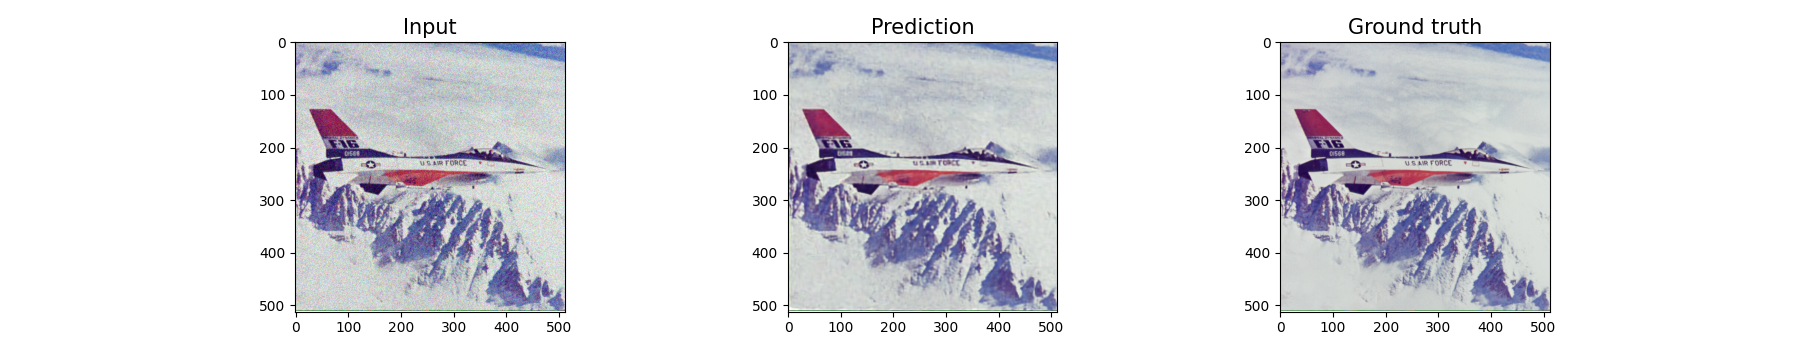
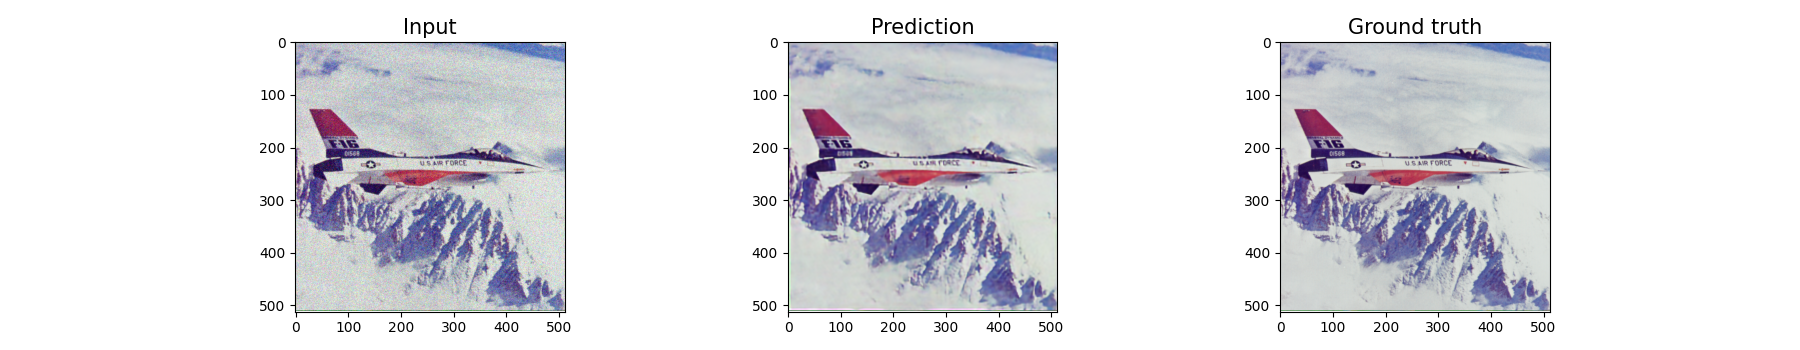
denoise

Changed region(s): [[0.1556, 0.1143, 0.3111, 0.8857]]

diff --git a/model.py b/model.py
@@ -58,47 +58,49 @@ class Model(nn.Module):
 
     def __init__(self, w, h, input_channel=3, mode='bilinear'):
         super(Model, self).__init__()
-        self.w,self.h = int(w/64), int(h/64)
+        self.w1,self.h1 = int(w/64), int(h/64)
+        self.w2,self.h2 = int(w/32), int(h/32)
+        self.w3,self.h3 = int(w/16), int(h/16)
+        self.w4,self.h4 = int(w/8), int(h/8)
         # print(w,self.w)
-        self.d1 = D(input_channel, 8, 3)
-        self.d2 = D(8, 16, 3)
-        self.d3 = D(16, 32, 3)
-        self.d4 = D(32, 64, 3)
-        self.d5 = D(64, 128, 3)
+        self.d1 = D(input_channel, 128, 3)
+        self.d2 = D(128, 128, 3)
+        self.d3 = D(128, 128, 3)
+        self.d4 = D(128, 128, 3)
+        self.d5 = D(128, 128, 3)
         # self.d6 = D(128, 256, 3)
 
-        self.u1 = U(16, 8, 3, mode=mode)
-        self.u2 = U(32, 16, 3, mode=mode)
-        self.u3 = U(64, 32, 3, mode=mode)
-        self.u4 = U(128 + 4, 64, 3, mode=mode)
+        self.u1 = U(128, 128, 3, mode=mode)
+        self.u2 = U(128 + 4, 128, 3, mode=mode)
+        self.u3 = U(128 + 4, 128, 3, mode=mode)
+        self.u4 = U(128 + 4, 128, 3, mode=mode)
         self.u5 = U(128 + 4, 128, 3, mode=mode)
         # self.u6 = U(128 + 4, 256, 3, mode=mode)
 
-        self.s4 = S(32, 4, 1)
-        self.s5 = S(64, 4, 1)
+        self.s2 = S(128, 4, 1)
+        self.s3 = S(128, 4, 1)
+        self.s4 = S(128, 4, 1)
+        self.s5 = S(128, 4, 1)
         # self.s6 = S(128, 4, 1)
 
-        self.conv_out = nn.Conv2d(8, 3, 1, stride=1, padding=0, bias=True)
+        self.conv_out = nn.Conv2d(128, 3, 1, stride=1, padding=0, bias=True)
 
     def forward(self, x):
         h = self.d1(x)
+        skip1 = self.s2(h)
         h = self.d2(h)
+        skip2 = self.s3(h)
         h = self.d3(h)
         skip3 = self.s4(h)
         h = self.d4(h)
         skip4 = self.s5(h)
         h = self.d5(h)
-        # h = self.u5(torch.cat((skip4[:, :, 8:-8, 8:-8], h), dim=1))
-        # h = self.u4(torch.cat((skip3[:, :, 16:-16, 16:-16], h), dim=1))
-        # skip5 = self.s6(h)
-        # h = self.d6(h)
-        
-        # h = self.u6(torch.cat((skip5[:,:,int(self.w/2):-int(self.w/2),int(self.h/2):-int(self.h/2)],h),dim=1))
-        # h = self.u6(torch.cat((skip5[:,:,self.w:-self.w,self.h:-self.h],h),dim=1))
-        h = self.u5(torch.cat((skip4[:,:,self.w:-self.w,self.h:-self.h],h),dim=1))
-        h = self.u4(torch.cat((skip3[:,:,2*self.w:-2*self.w,2*self.h:-2*self.h],h),dim=1))
-        h = self.u3(h)
-        h = self.u2(h)
+        # print(skip4[:,:,self.w1:-self.w1,self.h1:-self.h1].shape,h.shape,self.w1)
+        h = self.u5(torch.cat((skip4[:,:,self.w1:-self.w1,self.h1:-self.h1],h),dim=1))
+        h = self.u4(torch.cat((skip3[:,:,self.w2:-self.w2,self.h2:-self.h2],h),dim=1))
+        h = self.u3(torch.cat((skip2[:,:,self.w3:-self.w3,self.h3:-self.h3],h),dim=1))
+        # print(skip2[:,:,self.w4:-self.w4,self.h4:-self.h4].shape,h.shape,self.h4)
+        h = self.u2(torch.cat((skip1[:,:,self.w4:-self.w4,self.h4:-self.h4],h),dim=1))
         h = self.u1(h)
 
         return torch.sigmoid(self.conv_out(h))

diff --git a/main.py b/main.py
@@ -30,13 +30,13 @@ if __name__ == "__main__":
     if args.task == 'denoise':
         # print(image.shape)
         model = Model(image.shape[1], image.shape[2],input_channel=32).to(device)
-        optimizer = optim.Adam(model.parameters(), lr=0.025)
+        optimizer = optim.Adam(model.parameters(), lr=0.01)
         loss_fn = torch.nn.MSELoss()
         corrupted_img = (image + torch.randn_like(image) * .1).clip(0, 1)
         corrupted_img = corrupted_img.transpose(2, 3).transpose(1, 2)
-        z = torch.randn([1, 32, corrupted_img.shape[-2], corrupted_img.shape[-1]]) * .1
+        z = torch.rand([1, 32, corrupted_img.shape[-2], corrupted_img.shape[-1]]) * 0.1
         z = z.to(device)
-        
+        # model = Model(input_channel=32, w = corrupted_img.shape[-2],h=corrupted_img.shape[-1]).to(device)
         corrupted_img = corrupted_img.to(device)
     elif args.task == 'inpaint':
         loss_fn = torch.nn.MSELoss()
@@ -48,7 +48,9 @@ if __name__ == "__main__":
     # print(corrupted_img.shape)
     for epoch in tqdm(range(args.epoch)):
         if args.task == 'denoise':
-            img_pred = model.forward(z)
+            noise = torch.randn([1, 32, corrupted_img.shape[-2], corrupted_img.shape[-1]],device=device, requires_grad=True)/30
+            input = z + noise
+            img_pred = model.forward(input)
             loss = loss_fn(img_pred, corrupted_img)    
         
         if args.task == 'super':
@@ -97,3 +99,5 @@ if __name__ == "__main__":
     plt.imsave(f'./Imgs/{args.name}_gt.png', origin)
     plt.title('Ground truth', fontsize=15)
     plt.savefig(f'Imgs/{args.name}.png')
+    
+    # python main.py --task=denoise --name=f16 --address=./data/denoising/F16_GT.png --epoch=3000
